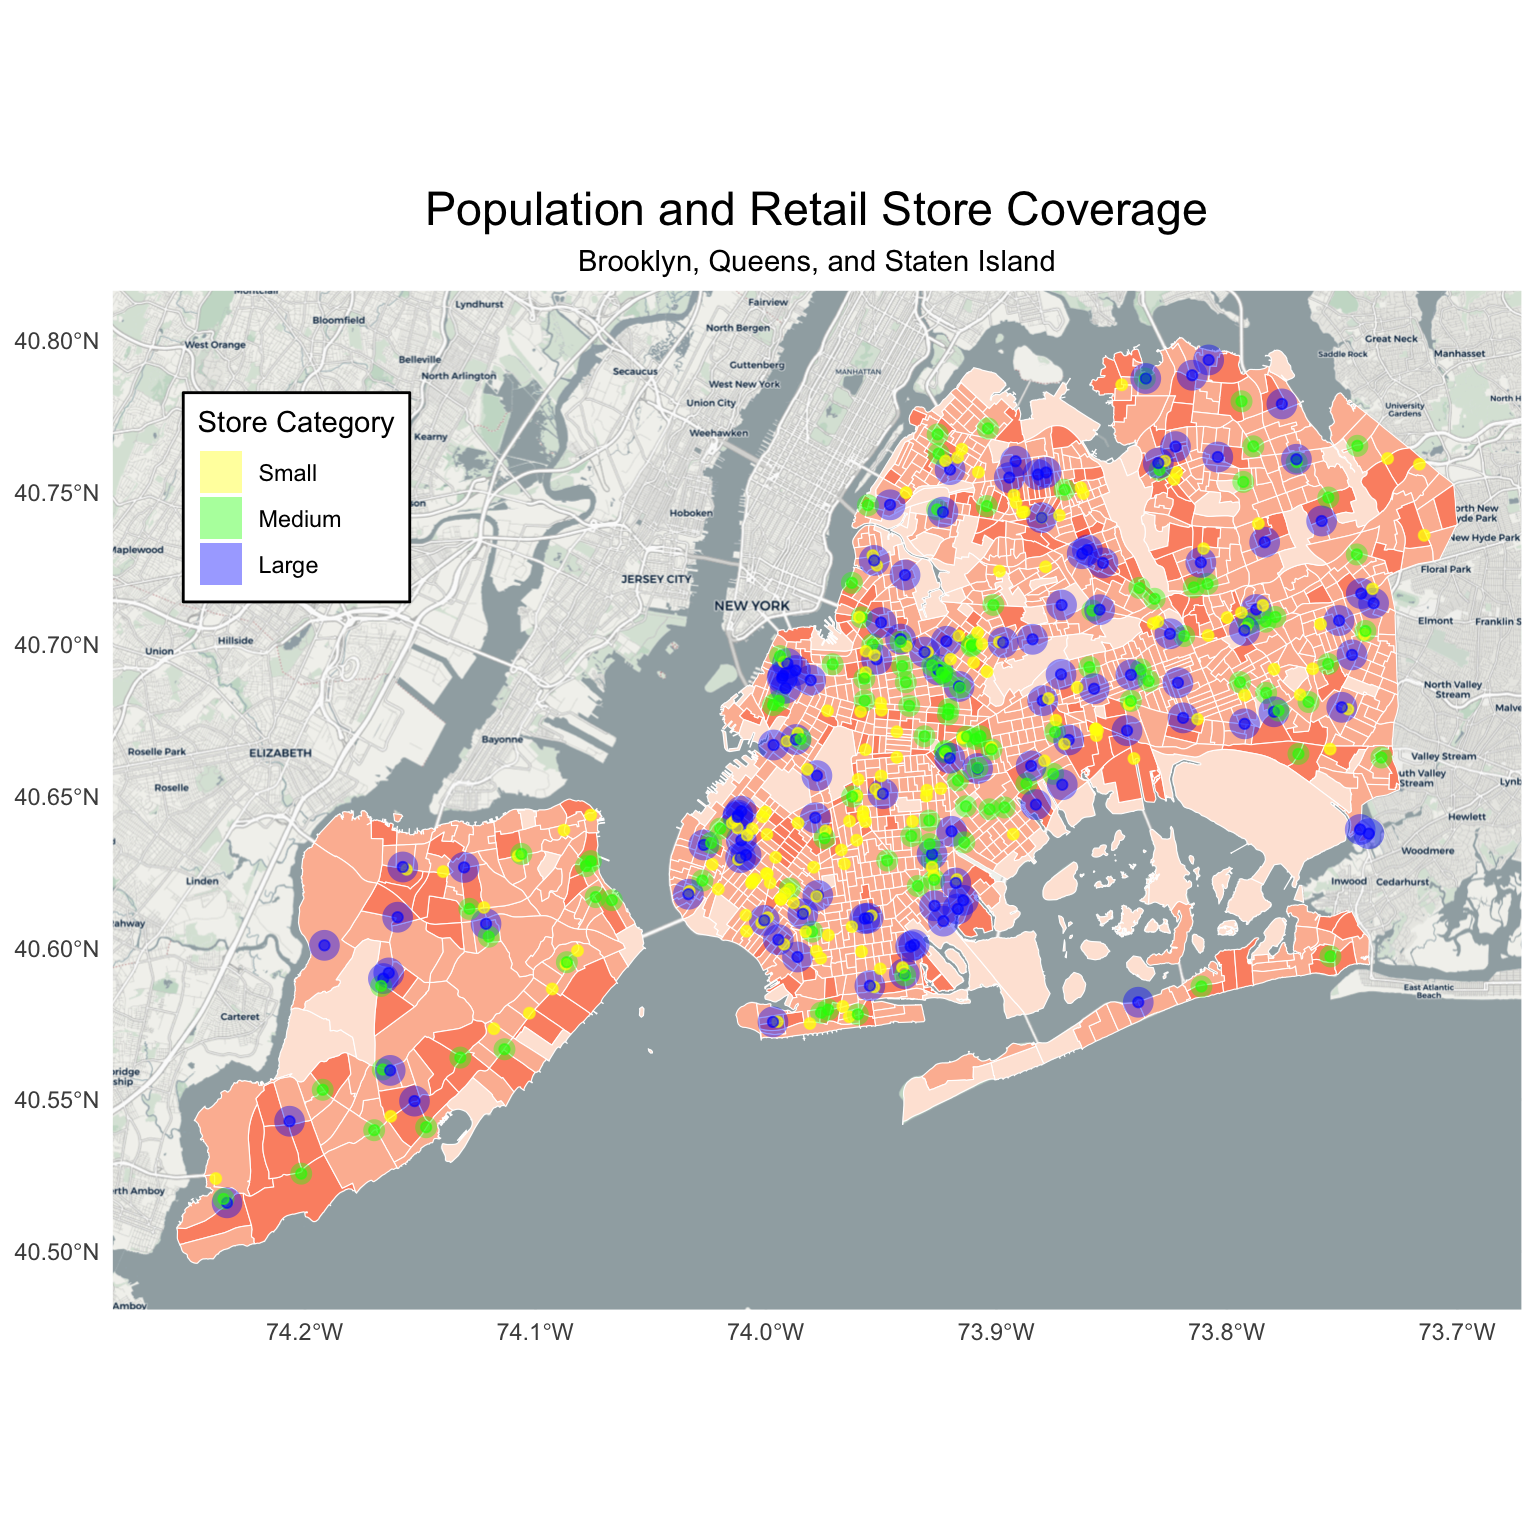
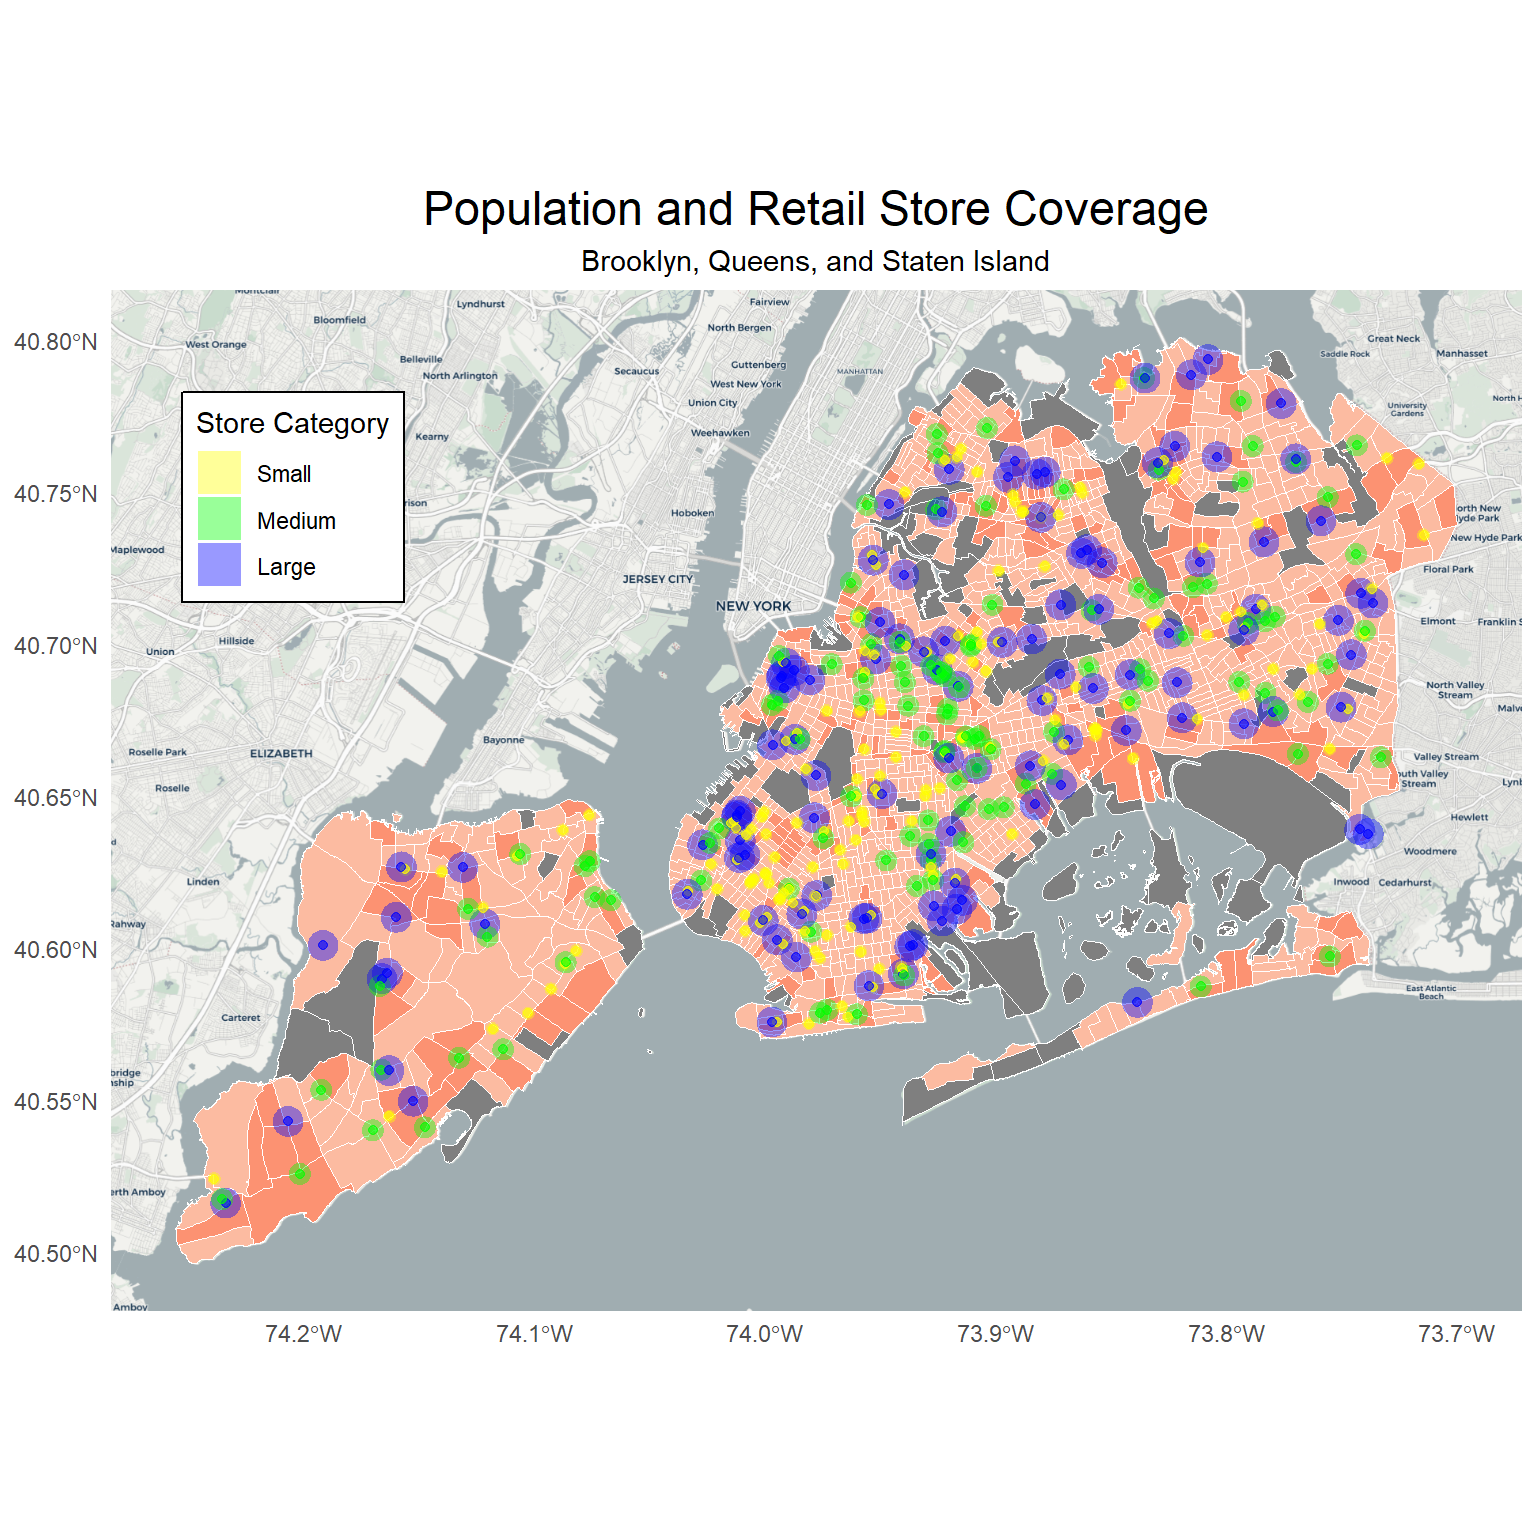
format the graph

diff --git a/plots.html b/plots.html
@@ -13,7 +13,7 @@
 
 <title>Identifying Food Deserts</title>
 
-<script src="site_libs/header-attrs-2.29/header-attrs.js"></script>
+<script src="site_libs/header-attrs-2.28/header-attrs.js"></script>
 <script src="site_libs/jquery-3.6.0/jquery-3.6.0.min.js"></script>
 <meta name="viewport" content="width=device-width, initial-scale=1" />
 <link href="site_libs/bootstrap-3.3.5/css/cosmo.min.css" rel="stylesheet" />
@@ -258,7 +258,7 @@ $(document).ready(function () {
   <a href="report.html">Report</a>
 </li>
 <li>
-  <a href="http://github.com/tl3279/">
+  <a href="https://github.com/tl3279/final.github.io">
     <span class="fa fa-github fa-lg"></span>
      
   </a>
@@ -285,11 +285,6 @@ $(document).ready(function () {
 </div>
 
 
-<pre>
-留言板
-1. 优化了一下图片排版（字体，标题，大小之类的），其他都没改 
-</pre>
-<p><br></p>
 <div id="data-importing-and-cleaning" class="section level2">
 <h2>Data Importing and Cleaning</h2>
 <p>Visit <a href="report.html">this page</a> for detailed steps on how
@@ -320,11 +315,12 @@ nyc_tracts =
   mutate(
     pop_bins = cut(
       total_population,
-      breaks = c(0, 1000, 5000, 10000, 15000, 200000),
-      labels = c(&quot;0 - 1,000&quot;, &quot;1,001 - 5,000&quot;, &quot;5,001 - 10,000&quot;, &quot;10,000 - 15,000&quot;, &quot;15,001 - 20,000&quot;),
+      breaks = c(0, 1001, 5001, 10001, 15001, Inf),
+      labels = c(&quot;≤ 1,000&quot;, &quot;1,001 - 5,000&quot;, &quot;5,001 - 10,000&quot;, &quot;10,001 - 15,000&quot;, &quot;&gt; 15,000&quot;),
       include.lowest = TRUE
     )
-  )
+  ) |&gt;
+  select(boroname, total_population, geometry, pop_bins)
 
 retail_stores = 
   read_csv(&quot;Retail_Food_Stores.csv&quot;) |&gt;
@@ -351,18 +347,20 @@ retail_stores =
       square_footage &lt;= 9000 ~ &quot;Medium&quot;,
       square_footage &gt; 9000 ~ &quot;Large&quot;
     )
-  )
-buffered_stores = 
+  )|&gt;
+  select(county, geometry, category)
+
+covered_df = 
   retail_stores |&gt;
   st_transform(crs = 2263) |&gt;
   mutate(
-    buffer_radius = case_when(
+    coverage_radius = case_when(
       category == &quot;Small&quot; ~ 5280*0.15,
       category == &quot;Medium&quot; ~ 5280*0.25,
       category == &quot;Large&quot; ~ 5280*0.35
     )
   ) |&gt;
-  mutate(geometry = st_buffer(geometry, dist = buffer_radius))</code></pre>
+  mutate(geometry = st_buffer(geometry, dist = coverage_radius))</code></pre>
 </div>
 <div id="nyc-population" class="section level2">
 <h2>NYC Population</h2>
@@ -377,7 +375,7 @@ densities.</p>
   annotation_map_tile(zoom = 12, type = &quot;cartolight&quot;) +  
   geom_sf(aes(fill = pop_bins), color = &quot;white&quot;, lwd = 0.2) +
   scale_fill_manual(
-    values = c(&quot;white&quot;, &quot;#fee5d9&quot;, &quot;#fcbba1&quot;, &quot;#fc9272&quot;, &quot;#fb6a4a&quot;, &quot;#de2d26&quot;),
+    values = c(&quot;#fee5d9&quot;, &quot;#fcbba1&quot;, &quot;#fc9272&quot;, &quot;#fb6a4a&quot;, &quot;#de2d26&quot;),
     name = &quot;Population by Census Tract&quot;
   ) +
   labs(
@@ -413,7 +411,7 @@ the Bronx, plotted over a population density map by census tract.</p>
   geom_sf(data = retail_stores |&gt;
             filter(county %in% c(&quot;Manhattan&quot;, &quot;Bronx&quot;)), color = &quot;darkblue&quot;, size = 2) +
   scale_fill_manual(
-    values = c(&quot;white&quot;, &quot;#fee5d9&quot;, &quot;#fcbba1&quot;, &quot;#fc9272&quot;, &quot;#fb6a4a&quot;, &quot;#de2d26&quot;),
+    values = c(&quot;#fee5d9&quot;, &quot;#fcbba1&quot;, &quot;#fc9272&quot;, &quot;#fb6a4a&quot;, &quot;#de2d26&quot;),
     name = &quot;Population by Census Tract&quot;
   ) +
   labs(
@@ -446,7 +444,7 @@ access to nutritious food.</p>
     color = &quot;white&quot;, lwd = 0.2
   ) +
   geom_sf(
-    data = buffered_stores |&gt; filter(county %in% c(&quot;Manhattan&quot;, &quot;Bronx&quot;)),
+    data = covered_df |&gt; filter(county %in% c(&quot;Manhattan&quot;, &quot;Bronx&quot;)),
     aes(fill = category),
     alpha = 0.4,
     color = NA
@@ -460,9 +458,9 @@ access to nutritious food.</p>
   scale_fill_manual(
     values = c(
       &quot;Small&quot; = &quot;yellow&quot;, &quot;Medium&quot; = &quot;green&quot;, &quot;Large&quot; = &quot;blue&quot;,
-      &quot;0 - 1,000&quot; = &quot;#fee5d9&quot;, &quot;1,001 - 5,000&quot; = &quot;#fcbba1&quot;,
+      &quot;≤ 1,000&quot; = &quot;#fee5d9&quot;, &quot;1,001 - 5,000&quot; = &quot;#fcbba1&quot;,
       &quot;5,001 - 10,000&quot; = &quot;#fc9272&quot;, &quot;10,000 - 15,000&quot; = &quot;#fb6a4a&quot;,
-      &quot;15,001 - 20,000&quot; = &quot;#de2d26&quot;
+      &quot;&gt; 15,000&quot; = &quot;#de2d26&quot;
     ),
     breaks = c(&quot;Small&quot;, &quot;Medium&quot;, &quot;Large&quot;), 
     name = &quot;Store Category&quot;
@@ -504,7 +502,7 @@ density map by census tract.</p>
   geom_sf(data = retail_stores |&gt;
             filter(county %in% c(&quot;Brooklyn&quot;, &quot;Queens&quot;, &quot;Staten Island&quot;)), color = &quot;darkblue&quot;, size = 2) +
   scale_fill_manual(
-    values = c(&quot;white&quot;, &quot;#fee5d9&quot;, &quot;#fcbba1&quot;, &quot;#fc9272&quot;, &quot;#fb6a4a&quot;, &quot;#de2d26&quot;),
+    values = c(&quot;#fee5d9&quot;, &quot;#fcbba1&quot;, &quot;#fc9272&quot;, &quot;#fb6a4a&quot;, &quot;#de2d26&quot;),
     name = &quot;Population by Census Tract&quot;
   ) +
   labs(
@@ -534,7 +532,7 @@ lower population density have limited retail store presence.</p>
     color = &quot;white&quot;, lwd = 0.2
   ) +
   geom_sf(
-    data = buffered_stores |&gt; 
+    data = covered_df |&gt; 
       filter(county %in% c(&quot;Brooklyn&quot;, &quot;Queens&quot;, &quot;Staten Island&quot;)),
     aes(fill = category),
     alpha = 0.4,
